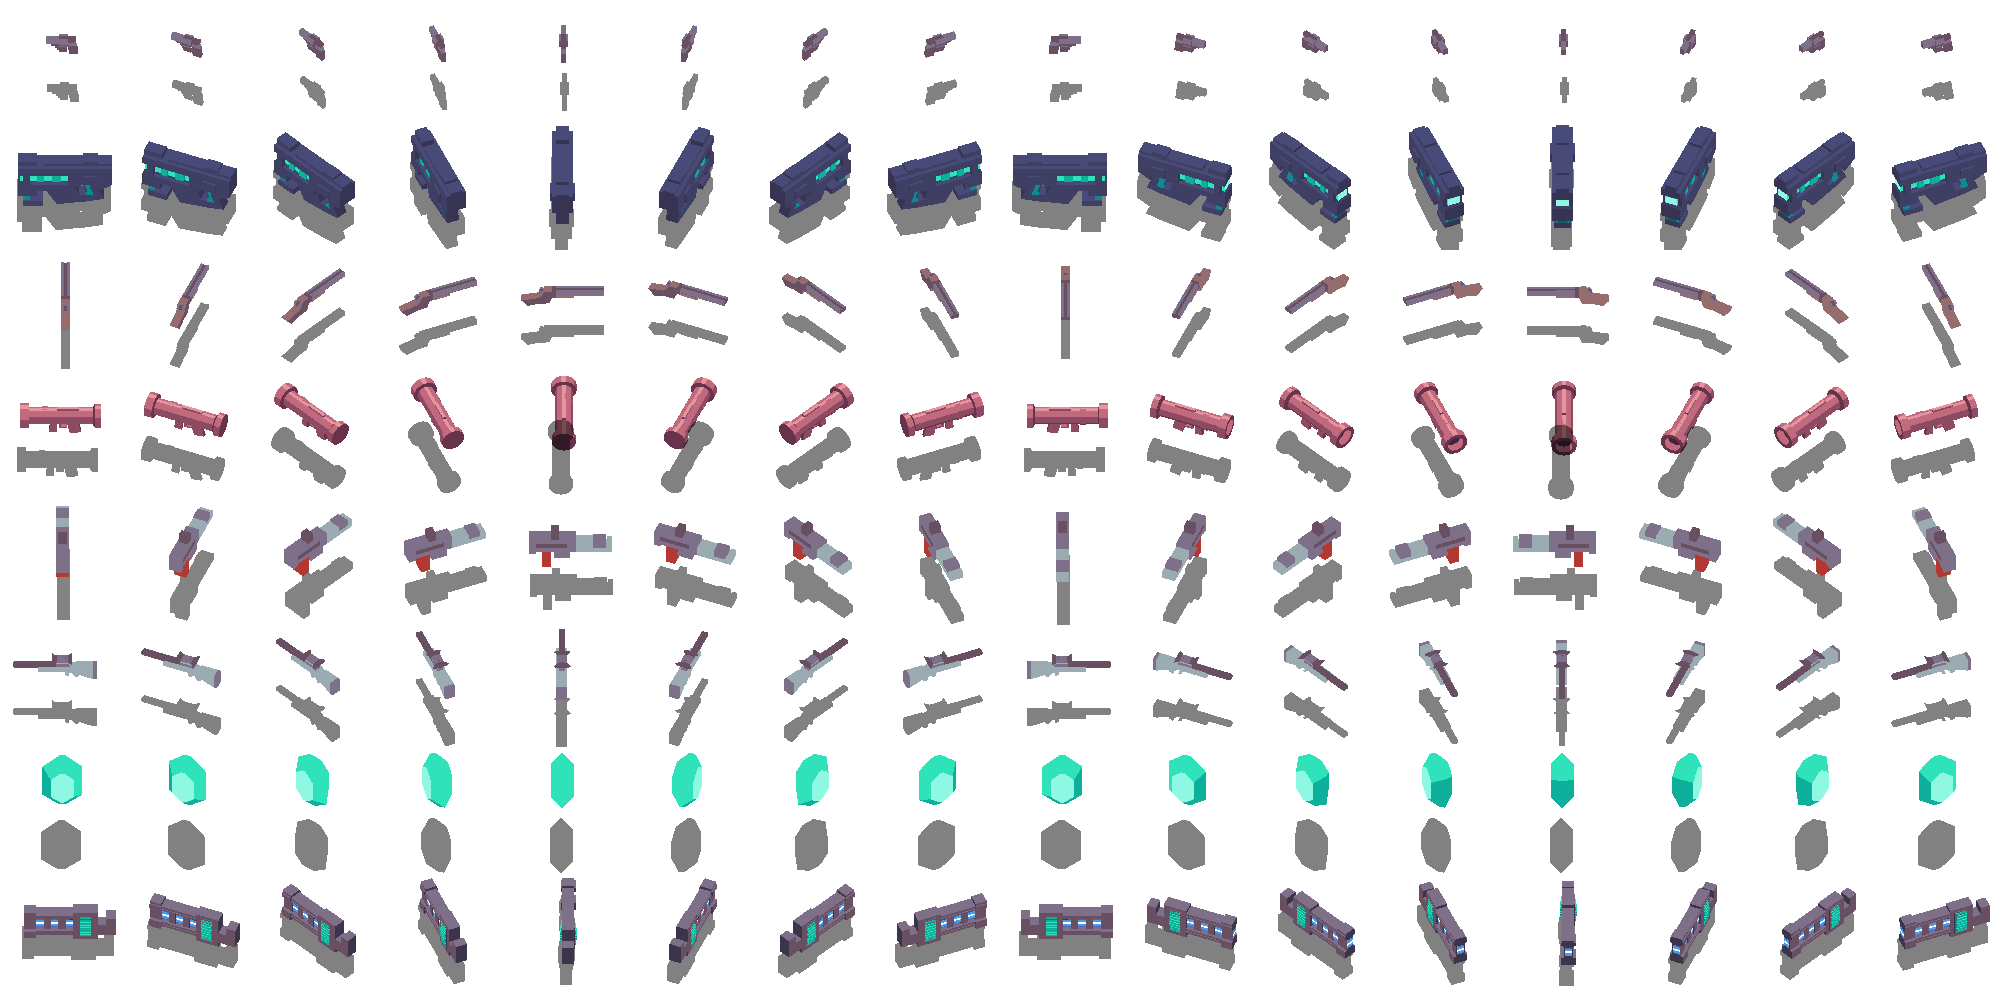
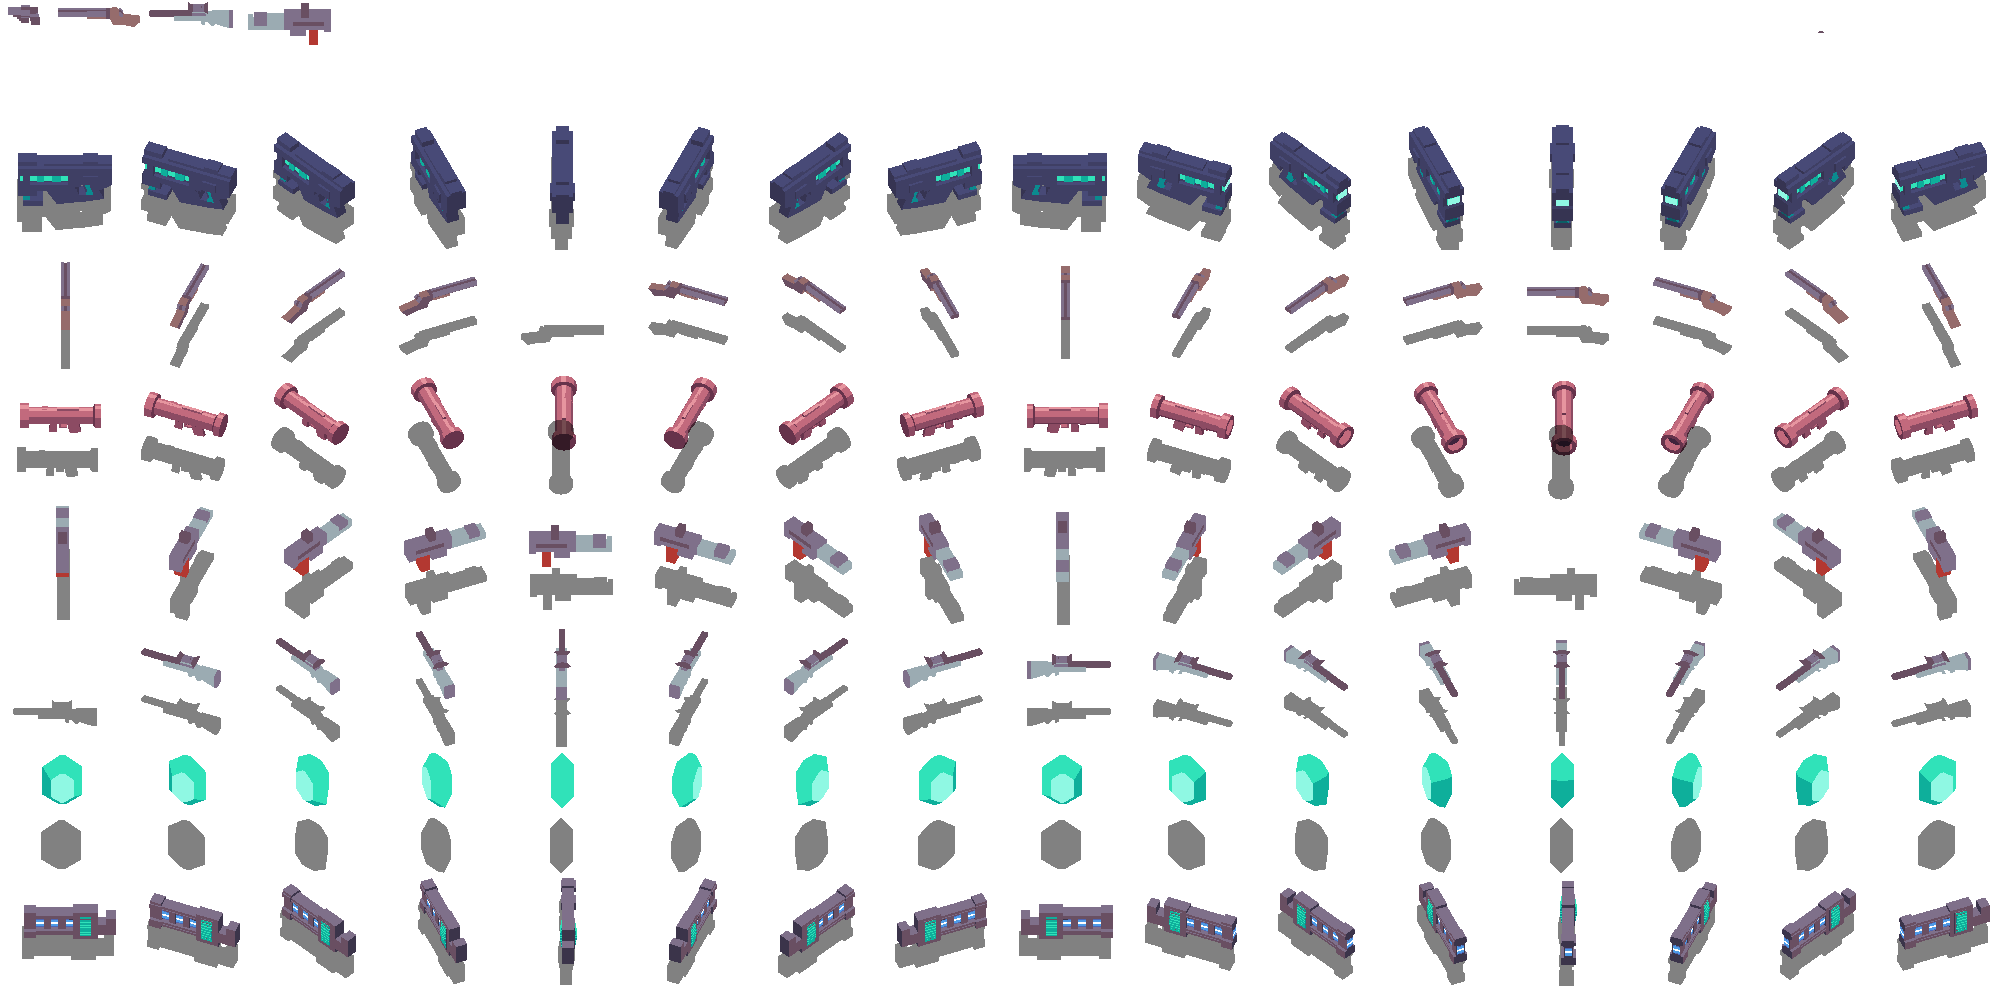
0.8.961

diff --git a/gamestream_flutter/lib/gamestream/isometric/atlases/atlas.dart b/gamestream_flutter/lib/gamestream/isometric/atlases/atlas.dart
@@ -1,4 +1,7 @@
+import 'dart:ui';
+
 import 'package:gamestream_flutter/common.dart';
+import 'package:gamestream_flutter/images.dart';
 
 import 'atlas_src_objects.dart';
 
@@ -14,7 +17,11 @@ class Atlas {
 
   static const Collection_Nothing = <int, List<double>>{};
 
-  static const Collection_Weapons = <int, List<double>>{};
+  static const Collection_Weapons = <int, List<double>>{
+    WeaponType.Handgun : AtlasSrcWeapons.Handgun,
+    WeaponType.Shotgun : AtlasSrcWeapons.Shotgun,
+    WeaponType.Sniper_Rifle : AtlasSrcWeapons.Sniper_Rifle,
+  };
 
   static const Collection_Legs = <int, List<double>>{};
 
@@ -48,4 +55,12 @@ class Atlas {
       (throw Exception(
           'Atlas.getSrc(type: ${GameObjectType.getName(type)}, subType: ${GameObjectType.getNameSubType(type, subType)})'
       ));
+
+  static Image getImage(int type) =>
+      switch (type) {
+          GameObjectType.Weapon => Images.atlas_weapons,
+          GameObjectType.Object => Images.atlas_gameobjects,
+          _ => (throw Exception('Atlas.getImage(type: ${GameObjectType.getName(type)}})'))
+      }
+;
 }

diff --git a/gamestream_flutter/lib/gamestream/isometric/atlases/atlas_src_objects.dart b/gamestream_flutter/lib/gamestream/isometric/atlases/atlas_src_objects.dart
@@ -1,3 +1,41 @@
+class AtlasSrcWeapons {
+  static const Handgun = <double> [
+    0,  // x
+    0,    // y
+    48,   // width
+    32,   // height
+    1,  // scale
+    0.5, // anchorY
+  ];
+
+  static const Shotgun = <double> [
+    48,  // x
+    0,    // y
+    96,   // width
+    32,   // height
+    1,  // scale
+    0.5, // anchorY
+  ];
+
+  static const Sniper_Rifle = <double> [
+    144,  // x
+    0,    // y
+    96,   // width
+    32,   // height
+    1,  // scale
+    0.5, // anchorY
+  ];
+
+  static const Flamethrower = <double> [
+    240,  // x
+    0,    // y
+    96,   // width
+    48,   // height
+    1,  // scale
+    0.5, // anchorY
+  ];
+}
+
 class AtlasSrcObjects {
   static const Barrel = <double>[
     128,  // x

diff --git a/gamestream_server/lib/games/mmo/mmo_game.dart b/gamestream_server/lib/games/mmo/mmo_game.dart
@@ -72,7 +72,16 @@ class MmoGame extends IsometricGame<MmoPlayer> {
 
   @override
   void customOnCharacterKilled(IsometricCharacter target, src) {
-    if (target is IsometricZombie){
+    if (target is IsometricZombie) {
+       spawnGameObject(
+           x: target.x,
+           y: target.y,
+           z: target.z,
+           type: GameObjectType.Weapon,
+           subType: WeaponType.Handgun,
+           team: TeamType.Neutral,
+       );
+
        addJob(seconds: 30, action: () {
          setCharacterStateSpawning(target);
        });

diff --git a/gamestream_flutter/lib/gamestream/isometric/components/render/renderer_gameobjects.dart b/gamestream_flutter/lib/gamestream/isometric/components/render/renderer_gameobjects.dart
@@ -23,10 +23,11 @@ class RendererGameObjects extends IsometricRenderer {
   @override
   void renderFunction() {
 
+    final image = Atlas.getImage(gameObject.type);
     final src = Atlas.getSrc(gameObject.type, gameObject.subType);
 
     engine.renderSprite(
-      image: Images.atlas_gameobjects,
+      image: image,
       dstX: gameObject.renderX,
       dstY: gameObject.renderY,
       srcX: src[Atlas.SrcX],

diff --git a/bleed-common/lib/src/version.dart b/bleed-common/lib/src/version.dart
@@ -1,4 +1,4 @@
-const version = '0.8.960';
+const version = '0.8.961';
 
 
 

diff --git a/gamestream_server/lib/common/src/version.dart b/gamestream_server/lib/common/src/version.dart
@@ -1,4 +1,4 @@
-const version = '0.8.960';
+const version = '0.8.961';
 
 
 
